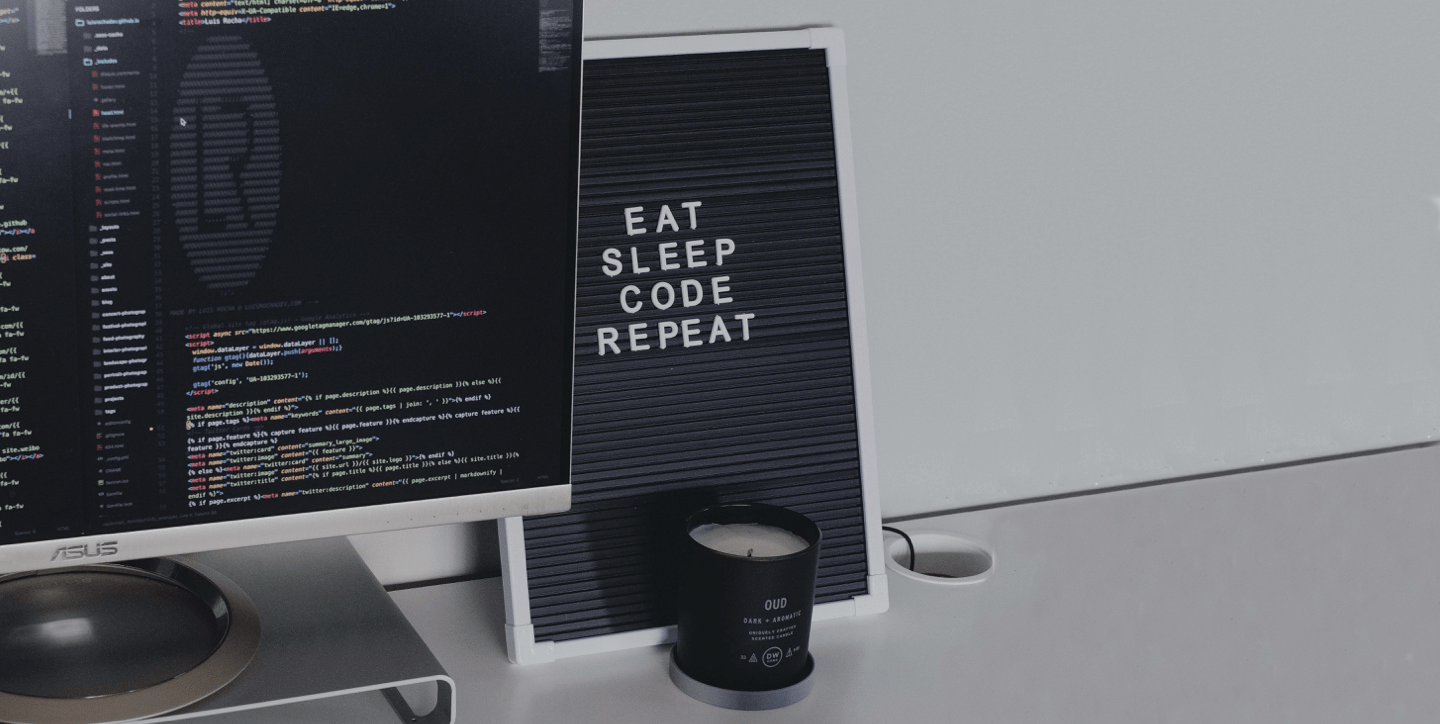
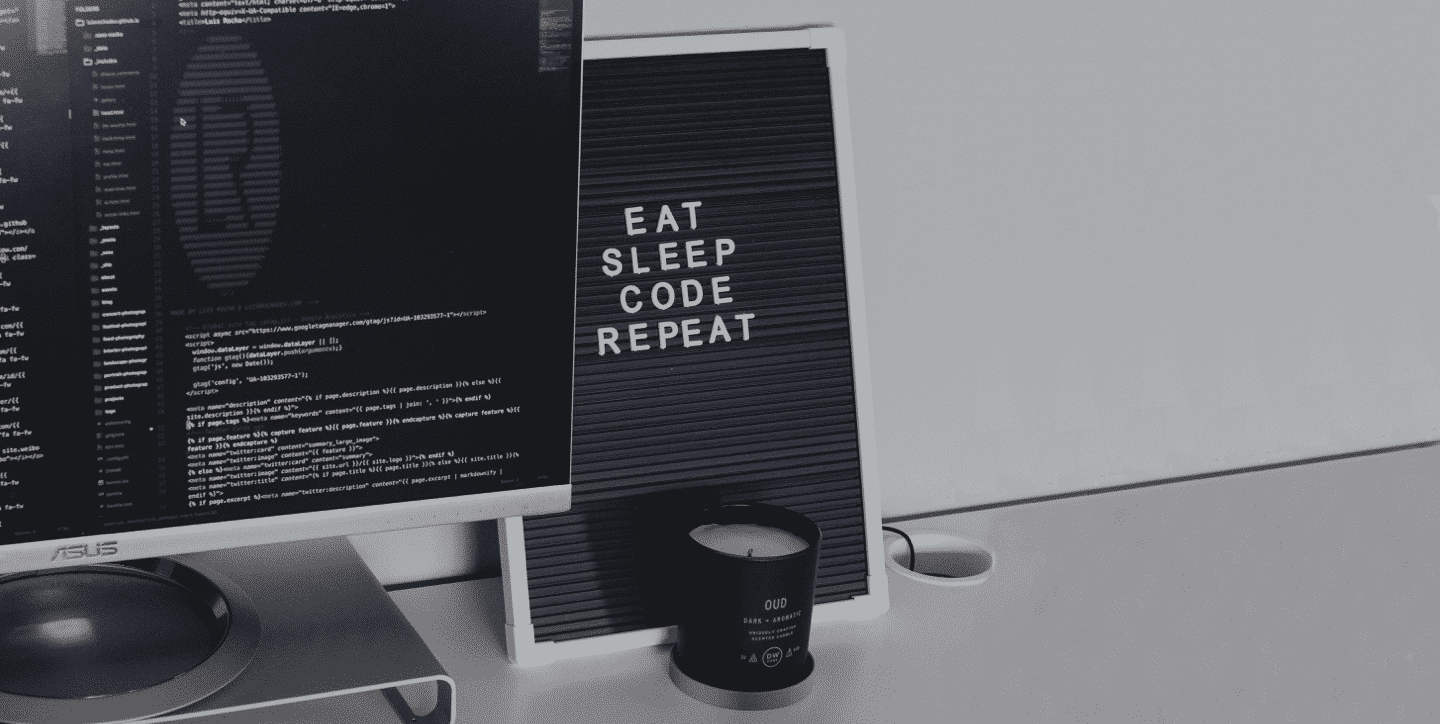
Compressed assets & change website name

diff --git a/client/public/index.html b/client/public/index.html
@@ -144,7 +144,7 @@
 					</li>
 					<li>
 						<strong>Website:</strong>
-						<span>www.mingxuanfan.me</span>
+						<span>mingxuanfan.me</span>
 					</li>
 					<li>
 						<strong>Email:</strong>
@@ -453,69 +453,6 @@
 						</div>
 
 					</div> <!-- /modal-03 -->
-
-					<div id="modal-04" class="popup-modal slider mfp-hide">
-
-						<div class="media">
-							<img src="../assets/images/portfolio/modals/m-beetle.jpg" alt="" />
-						</div>
-
-						<div class="description-box">
-							<h4>Beetle</h4>
-							<p>Proin gravida nibh vel velit auctor aliquet. Aenean sollicitudin, lorem quis bibendum
-								auctor, nisi elit consequat ipsum, nec sagittis sem nibh id elit.</p>
-
-							<div class="categories">Branding</div>
-						</div>
-
-						<div class="link-box">
-							<a href="http://www.behance.net">Details</a>
-							<a href="#" class="popup-modal-dismiss">Close</a>
-						</div>
-
-					</div> <!-- /modal-04 -->
-
-					<div id="modal-05" class="popup-modal slider mfp-hide">
-
-						<div class="media">
-							<img src="../assets/images/portfolio/modals/m-lighthouse.jpg" alt="" />
-						</div>
-
-						<div class="description-box">
-							<h4>Lighthouse</h4>
-							<p>Proin gravida nibh vel velit auctor aliquet. Aenean sollicitudin, lorem quis bibendum
-								auctor, nisi elit consequat ipsum, nec sagittis sem nibh id elit.</p>
-
-							<div class="categories">Web Development</div>
-						</div>
-
-						<div class="link-box">
-							<a href="http://www.behance.net">Details</a>
-							<a href="#" class="popup-modal-dismiss">Close</a>
-						</div>
-
-					</div> <!-- /modal-05 -->
-
-					<div id="modal-06" class="popup-modal slider mfp-hide">
-
-						<div class="media">
-							<img src="../assets/images/portfolio/modals/m-salad.jpg" alt="" />
-						</div>
-
-						<div class="description-box">
-							<h4>Salad</h4>
-							<p>Proin gravida nibh vel velit auctor aliquet. Aenean sollicitudin, lorem quis bibendum
-								auctor, nisi elit consequat ipsum, nec sagittis sem nibh id elit.</p>
-
-							<div class="categories">Branding</div>
-						</div>
-
-						<div class="link-box">
-							<a href="http://www.behance.net">Details</a>
-							<a href="#" class="popup-modal-dismiss">Close</a>
-						</div>
-
-					</div> <!-- /modal-06 -->
 
 
 					<!-- modal popups - end
